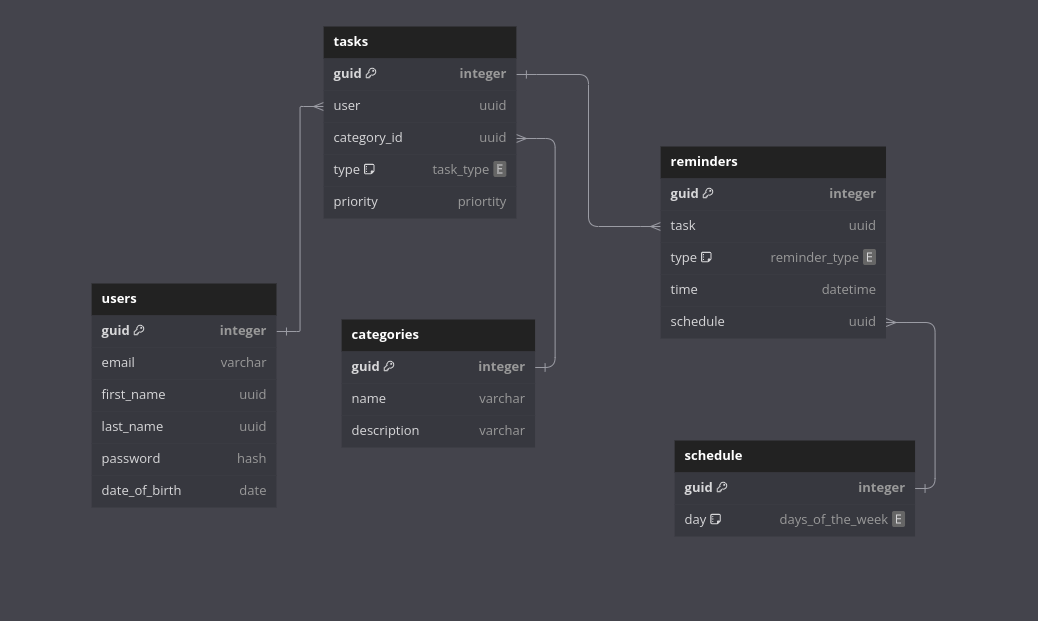
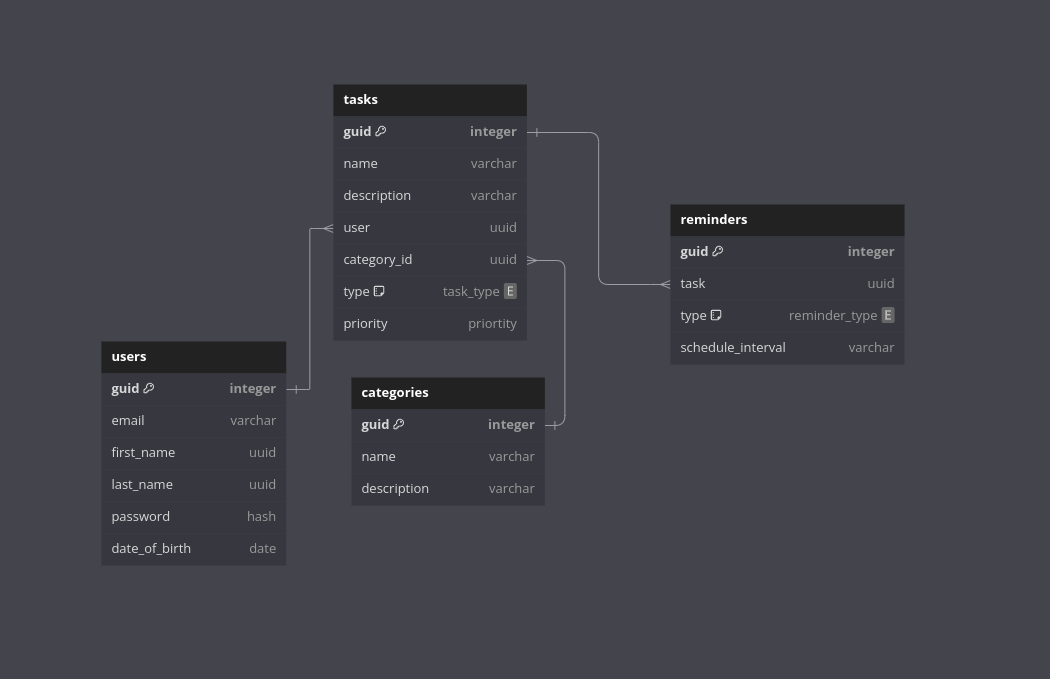
refactor: Refactor Task & Reminder models

diff --git a/habity/reminders/migrations/0001_initial.py b/habity/reminders/migrations/0001_initial.py
@@ -1,8 +1,7 @@
-# Generated by Django 5.0 on 2024-06-08 20:41
-
-import uuid
+# Generated by Django 5.0 on 2024-07-17 17:46
 
 import django.db.models.deletion
+import uuid
 from django.db import migrations, models
 
 
@@ -42,60 +41,13 @@ class Migration(migrations.Migration):
                         max_length=100,
                     ),
                 ),
-                ("time", models.DateTimeField()),
+                ("schedule_interval", models.CharField()),
                 (
                     "task",
                     models.ForeignKey(
                         on_delete=django.db.models.deletion.PROTECT,
                         related_name="reminders",
                         to="tasks.task",
-                    ),
-                ),
-            ],
-            options={
-                "abstract": False,
-            },
-        ),
-        migrations.CreateModel(
-            name="Schedule",
-            fields=[
-                (
-                    "guid",
-                    models.UUIDField(
-                        default=uuid.uuid4,
-                        editable=False,
-                        primary_key=True,
-                        serialize=False,
-                    ),
-                ),
-                ("active", models.BooleanField(default=True)),
-                ("created", models.DateTimeField(auto_now_add=True)),
-                ("created_by", models.UUIDField()),
-                ("updated", models.DateTimeField(auto_now=True)),
-                ("updated_by", models.UUIDField()),
-                (
-                    "day_of_week",
-                    models.CharField(
-                        choices=[
-                            ("Monday", "Monday"),
-                            ("Tuesday", "Tuesday"),
-                            ("Wednesday", "Wednesday"),
-                            ("Thursday", "Thursday"),
-                            ("Friday", "Friday"),
-                            ("Saturday", "Saturday"),
-                            ("Sunday", "Sunday"),
-                        ],
-                        max_length=50,
-                    ),
-                ),
-                ("start_date", models.DateTimeField()),
-                ("end_date", models.DateTimeField()),
-                (
-                    "reminder",
-                    models.ForeignKey(
-                        on_delete=django.db.models.deletion.PROTECT,
-                        related_name="schedules",
-                        to="reminders.reminder",
                     ),
                 ),
             ],

diff --git a/habity/tasks/migrations/0001_initial.py b/habity/tasks/migrations/0001_initial.py
@@ -1,8 +1,7 @@
-# Generated by Django 5.0 on 2024-06-08 20:41
-
-import uuid
+# Generated by Django 5.0 on 2024-07-17 17:46
 
 import django.db.models.deletion
+import uuid
 from django.conf import settings
 from django.db import migrations, models
 
@@ -56,6 +55,8 @@ class Migration(migrations.Migration):
                 ("created_by", models.UUIDField()),
                 ("updated", models.DateTimeField(auto_now=True)),
                 ("updated_by", models.UUIDField()),
+                ("name", models.CharField(max_length=250)),
+                ("description", models.TextField(blank=True, null=True)),
                 (
                     "type",
                     models.CharField(
@@ -78,6 +79,8 @@ class Migration(migrations.Migration):
                         max_length=50,
                     ),
                 ),
+                ("start_date", models.DateField()),
+                ("end_date", models.DateField()),
                 (
                     "user",
                     models.ForeignKey(

diff --git a/habity/tasks/models.py b/habity/tasks/models.py
@@ -26,9 +26,13 @@ class Priority(models.TextChoices):
 class Task(AbstractBase):
     """Holds task details."""
 
+    name = models.CharField(max_length=250)
+    description = models.TextField(blank=True, null=True)
     category = models.ForeignKey(
         TaskCategory, related_name="tasks", on_delete=models.PROTECT
     )
     user = models.ForeignKey(CustomUser, related_name="tasks", on_delete=models.CASCADE)
     type = models.CharField(choices=TaskType.choices, max_length=50)
     priority = models.CharField(choices=Priority.choices, max_length=50)
+    start_date = models.DateField()
+    end_date = models.DateField()

diff --git a/habity/reminders/models.py b/habity/reminders/models.py
@@ -25,15 +25,4 @@ class Reminder(AbstractBase):
 
     task = models.ForeignKey(Task, related_name="reminders", on_delete=models.PROTECT)
     type = models.CharField(choices=ReminderType.choices, max_length=100)
-    time = models.DateTimeField()
-
-
-class Schedule(AbstractBase):
-    """Holds schedule details."""
-
-    reminder = models.ForeignKey(
-        Reminder, related_name="schedules", on_delete=models.PROTECT
-    )
-    day_of_week = models.CharField(choices=DayOfWeek.choices, max_length=50)
-    start_date = models.DateTimeField()
-    end_date = models.DateTimeField()
+    schedule_interval = models.CharField()

diff --git a/habity/tasks/serializers.py b/habity/tasks/serializers.py
@@ -1,10 +1,22 @@
 from rest_framework.serializers import ModelSerializer
 
-from habity.tasks.models import Task
+from habity.tasks.models import Task, TaskCategory
+
+
+class TaskCategorySerializer(ModelSerializer):
+    """Task Serializer."""
+
+    class Meta:
+        """Serialization options."""
+
+        model = TaskCategory
+        fields = "__all__"
 
 
 class TaskSerializer(ModelSerializer):
     """Task Serializer."""
+
+    category = TaskCategorySerializer()
 
     class Meta:
         """Serialization options."""

diff --git a/tests/tasks/test_views.py b/tests/tasks/test_views.py
@@ -21,7 +21,7 @@ class TestTaskViews(LoggedInMixin):
             TaskCategory, name="Music", description="Group all music related tasks"
         )
         baker.make(
-            Task, category=category, user=self.user, type="SINGLE", priority="HIGH"
+            Task, name="Learn Music Fundamentals", category=category, user=self.user, type="SINGLE", priority="HIGH"
         )
 
         result = self.client.get(url).json()
